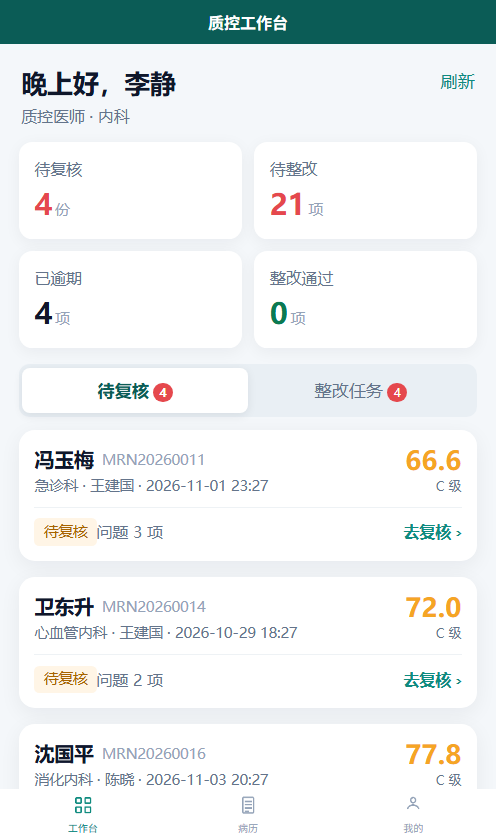
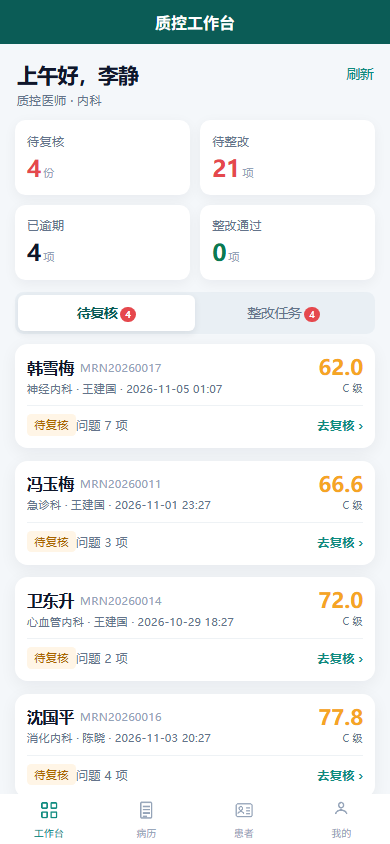
docs(miniapp): 补充 P0 临床闭环页面说明与截图

diff --git a/miniapp/README.md b/miniapp/README.md
@@ -1,4 +1,4 @@
-# 智医质控 MedAI · 微信小程序端（MVP）
+# 智医质控 MedAI · 微信小程序端
 
 这是现有 Web 平台的 uni-app + Vue 3 小程序端，复用同一套 Node/MySQL 接口。
 
@@ -8,10 +8,16 @@
 
 | 页面 | 路径 | 说明 |
 | --- | --- | --- |
-| 登录 | `pages/login/index` | 院内账号密码登录；微信一键登录待接入 AppID |
+| 登录 | `pages/login/index` | 院内账号密码 + 微信一键登录/首次绑定 |
 | 质控工作台 | `pages/workbench/index` | 待复核 / 整改任务 / 逾期统计 |
-| 病历列表 | `pages/records/index` | 搜索、状态筛选、下拉刷新、分页 |
-| 病历详情 | `pages/record-detail/index` | 病历内容、AI 报告、人工复核/改判、整改任务关闭 |
+| 病历列表 | `pages/records/index` | 搜索、状态筛选、批量质控、下拉刷新、分页 |
+| 病历详情 | `pages/record-detail/index` | 病历内容、AI 报告、人工复核/改判、整改提交/关闭 |
+| 病历编辑 | `pages/record-edit/index` | 新建/编辑病历，保存草稿或保存并质控 |
+| 患者管理 | `pages/patients/index` | 患者主索引、搜索、新增患者 |
+| 患者详情 | `pages/patient-detail/index` | 患者信息、就诊记录、新建就诊、建病历 |
+| 批量质控 | `pages/batch/index` | 批量任务进度轮询、逐份结果 |
+| 质控历史/版本 | `pages/versions/index` | 质控时间线、版本对比、字段 diff |
+| 质控报告 | `pages/report/index` | 原生报告页、分享；打印/PDF 走 Web 端 |
 | 我的 | `pages/me/index` | 当前用户、角色、接口地址、退出登录 |
 
 ## 开发与构建
